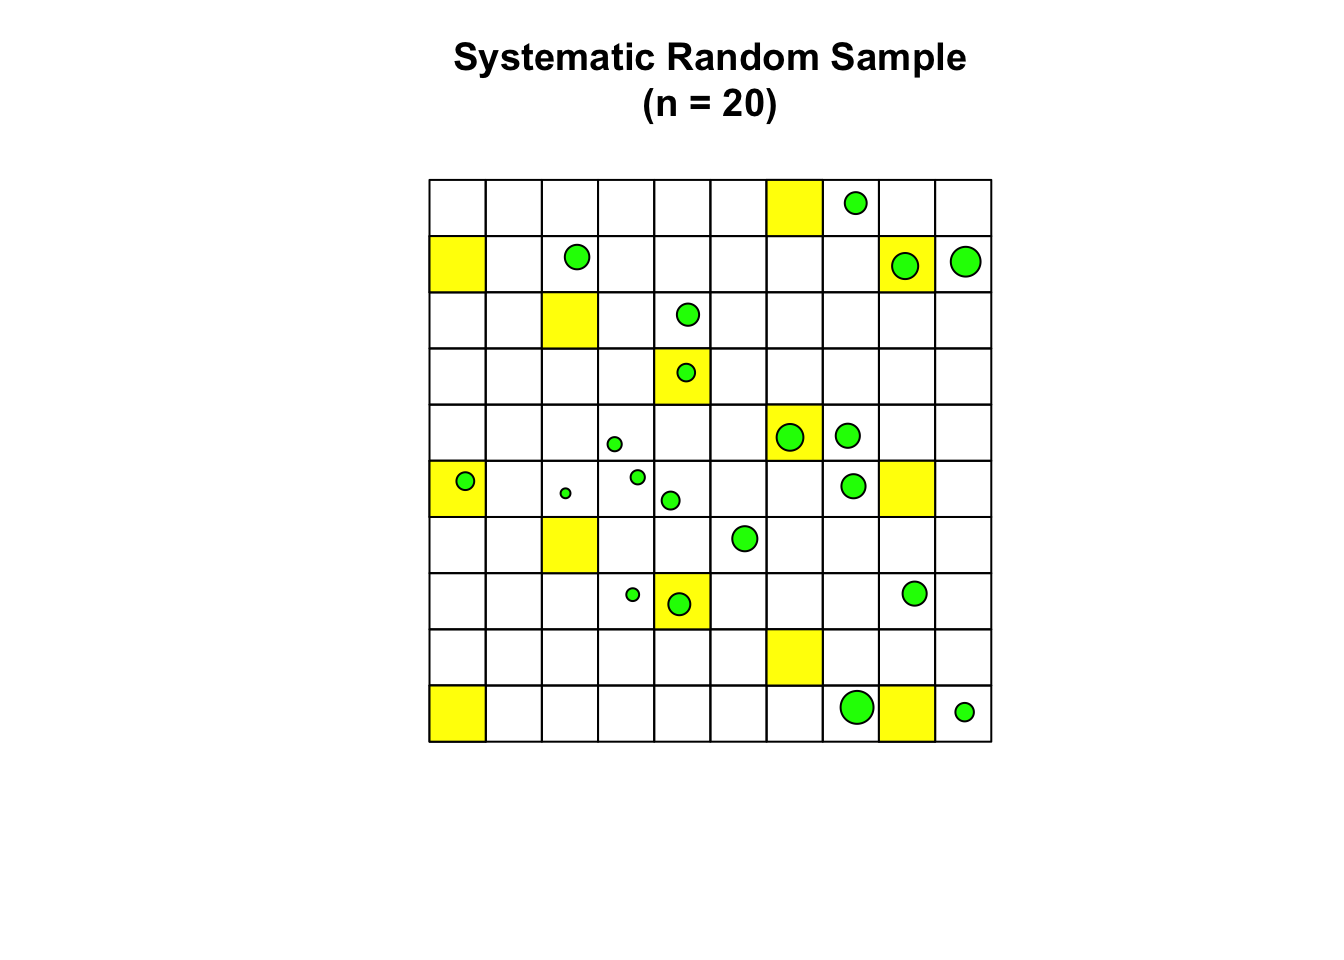
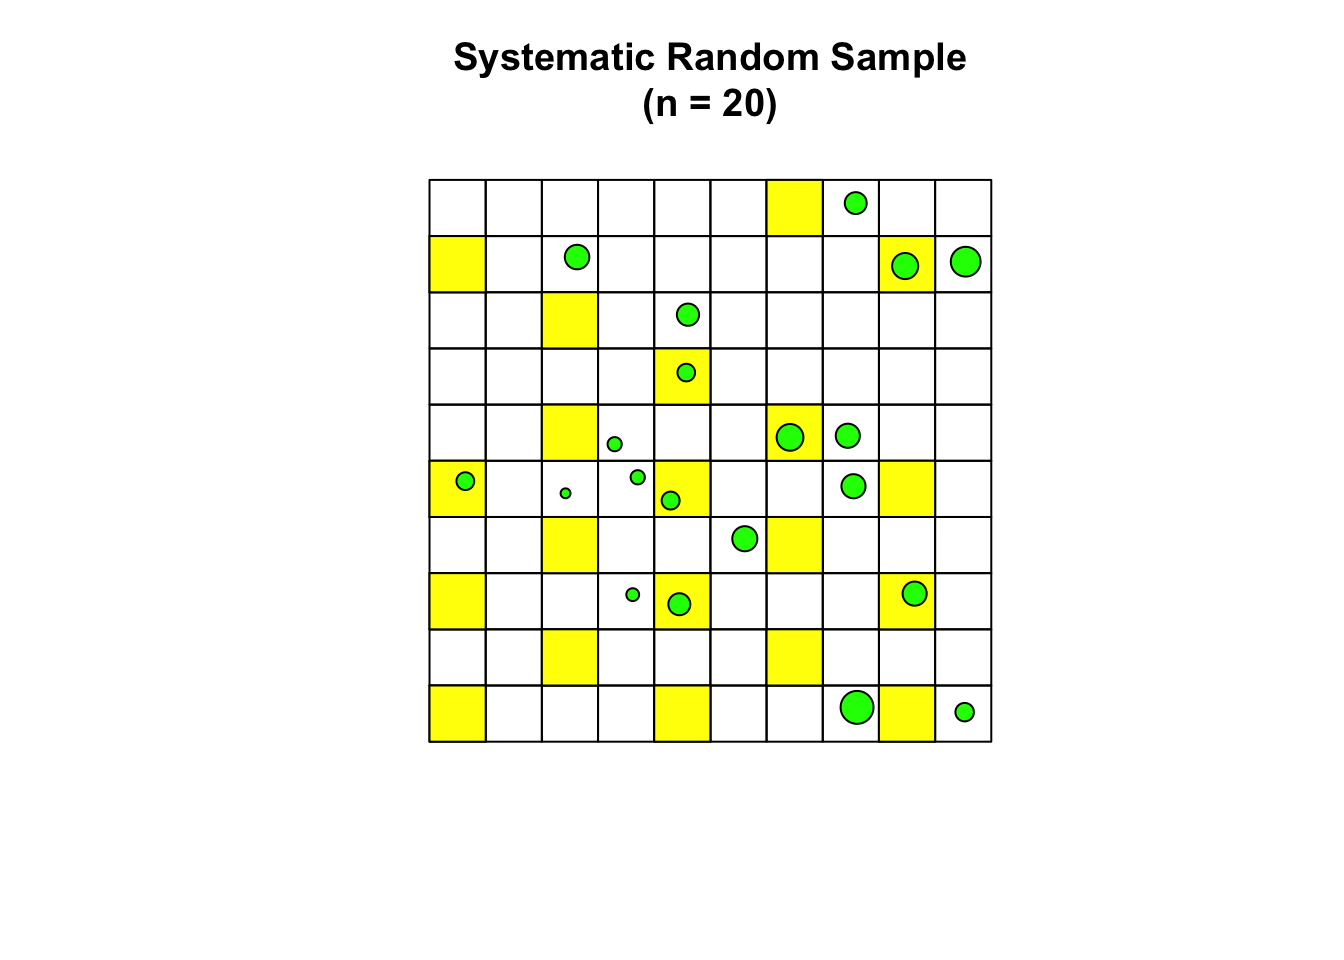
correct systematic sampling procedure

diff --git a/samples-and-populations-ch.-7.html b/samples-and-populations-ch.-7.html
@@ -311,22 +311,22 @@ Perhaps the simplest way to sample these would be to assign a number to each hec
 <div class="sourceCode" id="cb223"><pre class="sourceCode r"><code class="sourceCode r"><span id="cb223-1"><a href="samples-and-populations-ch.-7.html#cb223-1" tabindex="-1"></a>grids <span class="ot">&lt;-</span> <span class="fu">sample</span>(<span class="dv">1</span><span class="sc">:</span><span class="dv">7500</span>, <span class="dv">100</span>) <span class="co">#randomly select 100 numbers from 1-7500, w/o replacement</span></span>
 <span id="cb223-2"><a href="samples-and-populations-ch.-7.html#cb223-2" tabindex="-1"></a><span class="co">#if you have reason to sample with replacement instead, use replace = TRUE in sample()</span></span>
 <span id="cb223-3"><a href="samples-and-populations-ch.-7.html#cb223-3" tabindex="-1"></a>grids <span class="co">#by default these are ordered as selected</span></span></code></pre></div>
-<pre><code>##   [1] 2501 2557 4400 7067 1561 1253 2476 2692 1216 4507 5311 4475 6268  569  369
-##  [16] 1580  438 4782 6209 7044 3399 6757  401  493  988  671 6589 5372 2809 2405
-##  [31] 6329 6262  225 3985 6271 7347 4194 4541 4152 5658 7121  393 7290 3761 6876
-##  [46]  236 1643 2588 4206 1816 1712 2738  422 3271 3470 6648  434 6418   84 3321
-##  [61] 2604 6884 4862 7111 7216 1960 1352 3587 1558 4580 3066 3225 4748 1422 3194
-##  [76] 4922 3385 3727 6816 7312 5860 2732 6135 5209 6599 1737 1119 6313 5030 3853
-##  [91] 2881 6408 3060 5529 6148 3357 3466 4166  397  522</code></pre>
+<pre><code>##   [1] 6783 6002 5825 1271 1869 2872 7448 1154 5399 1142 2627 2157 7140 1456 2315
+##  [16] 6644 2219 6465 2122 7369 3984 3458 5790 1135 4312 7211  198 1841 2000 2831
+##  [31]  537 5530 5069 7354 2538 4536 5891 2318 4773 4636 4279 6102 4038 1256 3512
+##  [46] 5036 3550 2422  339 6395 2684 2207 6578 2244 4538  243 1381 2518 3999 5077
+##  [61] 6995  233 5430 5007 6858 6304 6082  269 6241 4743 4394 7236 3805 2362 2265
+##  [76] 7338 5150 2081 4694 2784 4331 4241 1509 6976 3022 1055 1864 5460 5324 4344
+##  [91] 2189 6530 6772 5555 5908 6722 3437 4783 3168 3082</code></pre>
 <p>Probably - think about the practical realities of working your way around the landscape collecting samples - you’d find it more practical to order these sequentially.</p>
 <div class="sourceCode" id="cb225"><pre class="sourceCode r"><code class="sourceCode r"><span id="cb225-1"><a href="samples-and-populations-ch.-7.html#cb225-1" tabindex="-1"></a><span class="fu">sort</span>(grids) </span></code></pre></div>
-<pre><code>##   [1]   84  225  236  369  393  397  401  422  434  438  493  522  569  671  988
-##  [16] 1119 1216 1253 1352 1422 1558 1561 1580 1643 1712 1737 1816 1960 2405 2476
-##  [31] 2501 2557 2588 2604 2692 2732 2738 2809 2881 3060 3066 3194 3225 3271 3321
-##  [46] 3357 3385 3399 3466 3470 3587 3727 3761 3853 3985 4152 4166 4194 4206 4400
-##  [61] 4475 4507 4541 4580 4748 4782 4862 4922 5030 5209 5311 5372 5529 5658 5860
-##  [76] 6135 6148 6209 6262 6268 6271 6313 6329 6408 6418 6589 6599 6648 6757 6816
-##  [91] 6876 6884 7044 7067 7111 7121 7216 7290 7312 7347</code></pre>
+<pre><code>##   [1]  198  233  243  269  339  537 1055 1135 1142 1154 1256 1271 1381 1456 1509
+##  [16] 1841 1864 1869 2000 2081 2122 2157 2189 2207 2219 2244 2265 2315 2318 2362
+##  [31] 2422 2518 2538 2627 2684 2784 2831 2872 3022 3082 3168 3437 3458 3512 3550
+##  [46] 3805 3984 3999 4038 4241 4279 4312 4331 4344 4394 4536 4538 4636 4694 4743
+##  [61] 4773 4783 5007 5036 5069 5077 5150 5324 5399 5430 5460 5530 5555 5790 5825
+##  [76] 5891 5908 6002 6082 6102 6241 6304 6395 6465 6530 6578 6644 6722 6772 6783
+##  [91] 6858 6976 6995 7140 7211 7236 7338 7354 7369 7448</code></pre>
 <p>As Drennan (p85) is at pains to point out - and as you would be very wise to note! - <em>random</em> is not the same thing as <em>representative</em>. The concepts underlying Drennan’s discussion of random and nonrandom samples, sampling bias, and representativeness <em>are at least as important as any statistical technique</em>. As Drennan notes (p88), these are issues fundamental to inference generally, not just to statistical inference (i.e., you cannot avoid the need to think about these issues by simply eschewing statistics!).</p>
 <p>Note that R code that generates random samples is very unlikely to draw the same number twice! So…if you run the code a second time, you’re likely to get a different answer. If you want to, for illustrative purposes, makes sure that you always draw the same random number, use the <code>set.seed()</code> function.</p>
 <p>Compare the result of running both lines of code below two or three times to the result of running only the second line of code two or three times.</p>

diff --git a/sampling-without-finding-anything-ch.-19.html b/sampling-without-finding-anything-ch.-19.html
@@ -387,15 +387,16 @@ is then taken, and <em>every unit within the selected subgroup</em> is a part of
 <span id="cb502-2"><a href="sampling-without-finding-anything-ch.-19.html#cb502-2" tabindex="-1"></a>k <span class="ot">&lt;-</span> <span class="fu">sample</span>(<span class="dv">1</span><span class="sc">:</span><span class="dv">8</span>, <span class="dv">1</span>)</span>
 <span id="cb502-3"><a href="sampling-without-finding-anything-ch.-19.html#cb502-3" tabindex="-1"></a></span>
 <span id="cb502-4"><a href="sampling-without-finding-anything-ch.-19.html#cb502-4" tabindex="-1"></a>sys_rand <span class="ot">&lt;-</span> <span class="fu">seq</span>(<span class="at">from =</span> k, <span class="at">by =</span> <span class="dv">8</span>, <span class="at">length.out =</span> <span class="dv">20</span>)</span>
-<span id="cb502-5"><a href="sampling-without-finding-anything-ch.-19.html#cb502-5" tabindex="-1"></a>site_grd_sysrand <span class="ot">&lt;-</span> site_grd[sys_rand]</span>
-<span id="cb502-6"><a href="sampling-without-finding-anything-ch.-19.html#cb502-6" tabindex="-1"></a></span>
-<span id="cb502-7"><a href="sampling-without-finding-anything-ch.-19.html#cb502-7" tabindex="-1"></a><span class="fu">plot</span>(site_grd, <span class="at">main =</span> <span class="st">&quot;Systematic Random Sample</span><span class="sc">\n</span><span class="st">(n = 20)&quot;</span>)</span>
-<span id="cb502-8"><a href="sampling-without-finding-anything-ch.-19.html#cb502-8" tabindex="-1"></a><span class="fu">plot</span>(site_grd_sysrand, <span class="at">col =</span> <span class="st">&quot;yellow&quot;</span>, <span class="at">add =</span> T) </span>
-<span id="cb502-9"><a href="sampling-without-finding-anything-ch.-19.html#cb502-9" tabindex="-1"></a><span class="fu">plot</span>(pithouses, <span class="at">add =</span> T, <span class="at">col =</span> <span class="st">&quot;green&quot;</span>, <span class="at">pch =</span> <span class="dv">16</span>)</span></code></pre></div>
+<span id="cb502-5"><a href="sampling-without-finding-anything-ch.-19.html#cb502-5" tabindex="-1"></a>sys_rand <span class="ot">&lt;-</span> <span class="fu">ifelse</span>(sys_rand <span class="sc">&gt;</span> <span class="dv">100</span>, sys_rand <span class="sc">-</span> <span class="dv">100</span>, sys_rand)</span>
+<span id="cb502-6"><a href="sampling-without-finding-anything-ch.-19.html#cb502-6" tabindex="-1"></a>site_grd_sysrand <span class="ot">&lt;-</span> site_grd[sys_rand]</span>
+<span id="cb502-7"><a href="sampling-without-finding-anything-ch.-19.html#cb502-7" tabindex="-1"></a></span>
+<span id="cb502-8"><a href="sampling-without-finding-anything-ch.-19.html#cb502-8" tabindex="-1"></a><span class="fu">plot</span>(site_grd, <span class="at">main =</span> <span class="st">&quot;Systematic Random Sample</span><span class="sc">\n</span><span class="st">(n = 20)&quot;</span>)</span>
+<span id="cb502-9"><a href="sampling-without-finding-anything-ch.-19.html#cb502-9" tabindex="-1"></a><span class="fu">plot</span>(site_grd_sysrand, <span class="at">col =</span> <span class="st">&quot;yellow&quot;</span>, <span class="at">add =</span> T) </span>
+<span id="cb502-10"><a href="sampling-without-finding-anything-ch.-19.html#cb502-10" tabindex="-1"></a><span class="fu">plot</span>(pithouses, <span class="at">add =</span> T, <span class="at">col =</span> <span class="st">&quot;green&quot;</span>, <span class="at">pch =</span> <span class="dv">16</span>)</span></code></pre></div>
 <p><img src="Drennan_notes_files/figure-html/unnamed-chunk-157-1.png" width="672" /></p>
 <div class="sourceCode" id="cb503"><pre class="sourceCode r"><code class="sourceCode r"><span id="cb503-1"><a href="sampling-without-finding-anything-ch.-19.html#cb503-1" tabindex="-1"></a>hits_sysrand <span class="ot">&lt;-</span> <span class="fu">st_contains</span>(site_grd_sysrand, pithouses)</span>
 <span id="cb503-2"><a href="sampling-without-finding-anything-ch.-19.html#cb503-2" tabindex="-1"></a><span class="fu">sum</span>(<span class="fu">lengths</span>(hits_sysrand) <span class="sc">&gt;</span> <span class="dv">0</span>)</span></code></pre></div>
-<pre><code>## [1] 5</code></pre>
+<pre><code>## [1] 7</code></pre>
 </div>
 <div id="stratified-random-sampling" class="section level3 hasAnchor" number="19.1.3">
 <h3><span class="header-section-number">19.1.3</span> Stratified random sampling<a href="sampling-without-finding-anything-ch.-19.html#stratified-random-sampling" class="anchor-section" aria-label="Anchor link to header"></a></h3>
